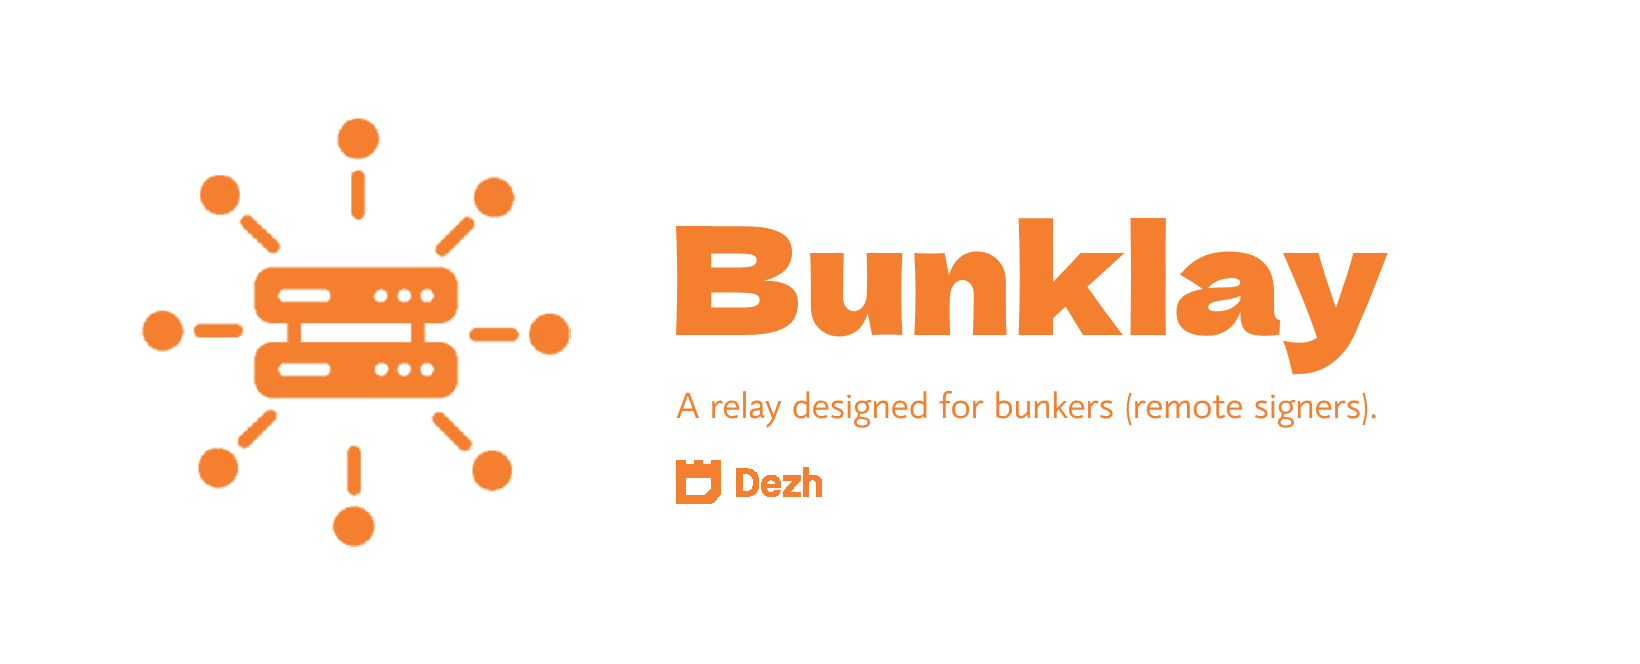
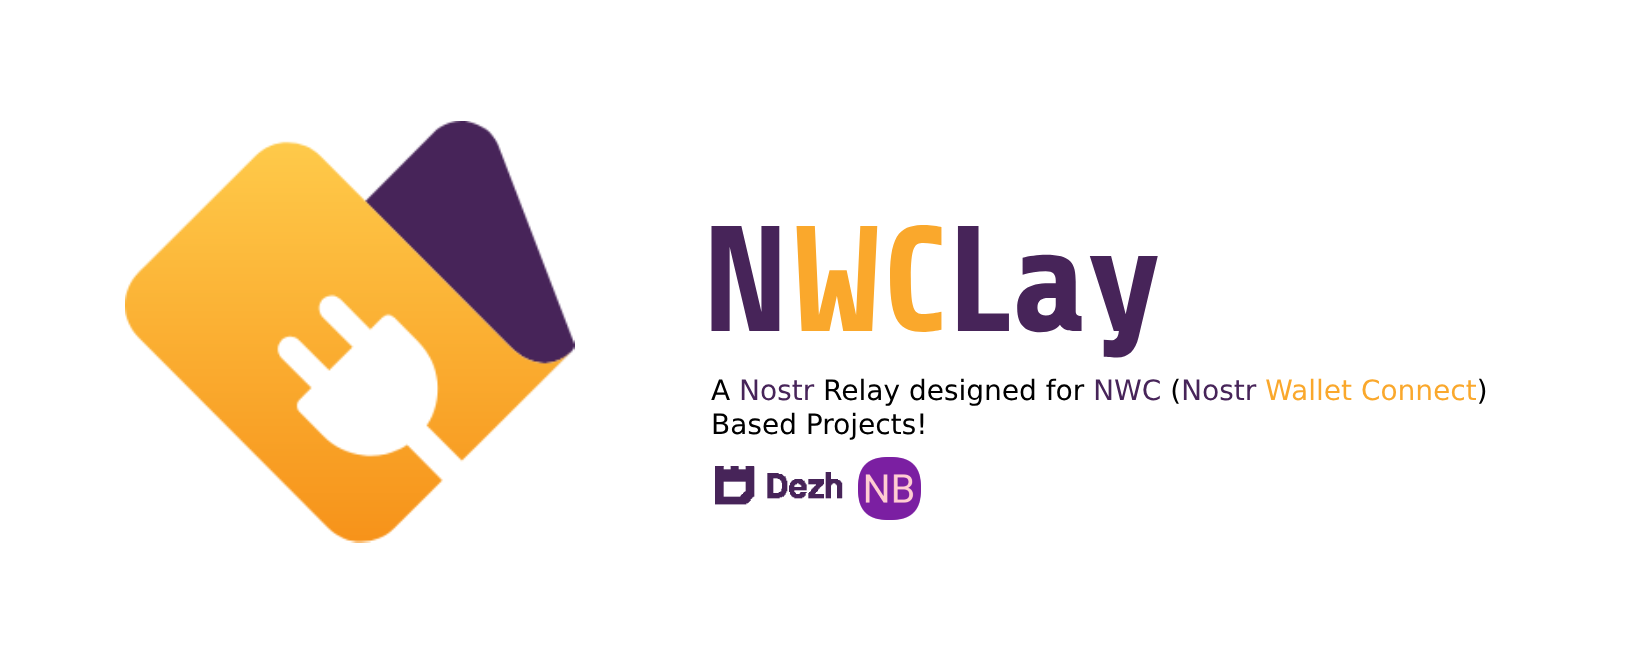
fix: nwclay v1

Changed region(s): [[0.0622, 0.1807, 0.3732, 0.8133], [0.4043, 0.3313, 0.9018, 0.6627], [0.4043, 0.6928, 0.5598, 0.7831]]

diff --git a/nwclay/static/index.html b/nwclay/static/index.html
@@ -11,7 +11,7 @@
         body {
             font-family: "Inter", sans-serif;
             min-height: 100vh;
-            background: linear-gradient(to right, #f47f2f, #ffffff);
+            background: linear-gradient(to right, #472459, #faa82c);
         }
     </style>
 </head>
@@ -22,17 +22,19 @@
                 <a href="{{.Icon}}">
                     <img src="{{.Icon}}" class="w-24 h-24 rounded-full border-2 border-white mb-2" />
                 </a>
-                <h1 class="text-3xl font-bold text-[#f47f2f]">{{.Name}}</h1>
-                <p class="text-lg text-black-300">{{.Description}}</p>
+                <h1 class="text-3xl font-bold" style="color: #472459;">{{.Name}}</h1>
+                <p class="text-lg" style="color: #472459;">{{.Description}}</p>
             </div>
 
             <div class="bg-gray-800 p-6 rounded-lg shadow-lg mb-6">
-                <h2 class="text-2xl font-bold text-[#f47f2f] mb-4">Contact Information</h2>
+                <h2 class="text-2xl font-bold mb-4" style="color: #faa82c;">Contact Information</h2>
                 <table class="w-full">
                     <tbody>
                         <tr>
                             <td class="font-semibold">Pubkey:</td>
-                            <td><a href="nostr:{{.PubKey}}" class="text-[#f47f2f] hover:underline">Operator Nostr</a></td>
+                            <td>
+                                <a href="nostr:{{.PubKey}}" class="hover:underline" style="color: #faa82c;">Operator Nostr</a>
+                            </td>
                         </tr>
                         <tr>
                             <td class="font-semibold">Contact:</td>
@@ -43,12 +45,14 @@
             </div>
 
             <div class="bg-gray-800 p-6 rounded-lg shadow-lg mb-6">
-                <h2 class="text-2xl font-bold text-[#f47f2f] mb-4">Software</h2>
+                <h2 class="text-2xl font-bold mb-4" style="color: #faa82c;">Software</h2>
                 <table class="w-full">
                     <tbody>
                         <tr>
                             <td class="font-semibold">Software:</td>
-                            <td><a href="https://github.com/dezh-tech/ddsr" class="text-[#f47f2f] hover:underline">Bunklay</a></td>
+                            <td>
+                                <a href="https://github.com/dezh-tech/ddsr" class="hover:underline" style="color: #faa82c;">NWCLay</a>
+                            </td>
                         </tr>
                         <tr>
                             <td class="font-semibold">Version:</td>
@@ -65,8 +69,8 @@
     </div>
 
     <footer class="w-full text-center py-6 bg-gray-800 mt-auto">
-        <p class="text-lg text-gray-400 mb-2">
-            Please use a <a href="https://github.com/aljazceru/awesome-nostr#clients" class="text-[#f47f2f] hover:text-[#966957] underline">Nostr bunker/client</a> to connect.
+        <p class="text-lg mb-2" style="color: #ccc;">
+            Please use a <a href="https://github.com/aljazceru/awesome-nostr#clients" class="hover:underline" style="color: #faa82c;">Nostr wallet Connect Provider/Client</a> to connect.
         </p>
     </footer>
 </body>

diff --git a/nwclay/jobs.go b/nwclay/jobs.go
@@ -39,16 +39,3 @@ func cleanDatabase() {
 		}
 	}
 }
-
-// todo:::
-// func updateNIP11() {
-// 	ticker := time.NewTicker(time.Duration(config.AcceptEventsInRange) * time.Minute)
-// 	defer ticker.Stop()
-
-// 	for range ticker.C {
-// 		now := time.Now()
-
-// 		startTime := now.Add(time.Duration(-config.AcceptEventsInRange) * time.Minute)
-// 		endTime := now.Add(time.Duration(config.AcceptEventsInRange) * time.Minute)
-// 	}
-// }

diff --git a/nwclay/main.go b/nwclay/main.go
@@ -42,7 +42,7 @@ func main() {
 	relay.Info.Contact = config.RelayContact
 	relay.Info.URL = config.RelayURL
 	relay.Info.Banner = config.RelayBanner
-	relay.Info.SupportedNIPs = []any{1, 46}
+	relay.Info.SupportedNIPs = []any{1, 47}
 
 	mainDB := &badger.BadgerBackend{
 		Path:     path.Join(config.WorkingDirectory, "database"),

diff --git a/nwclay/README.md b/nwclay/README.md
@@ -1,5 +1,5 @@
 <p align="center"> 
-    <img alt="bunklay" src="./static/img/logo-transp.png" width="150" height="150" />
+    <img alt="nwclay" src="./static/img/logo-transp.png" width="150" height="150" />
 </p>
 
 <h1 align="center">
@@ -10,7 +10,7 @@ The NWCLay only accepts NWC events!
 
 ## Screenshot
 
-<img alt="pages" src="./static/img/ss.png"/>
+<img alt="nwclay" src="./static/img/ss.png"/>
 
 ## Features
 
@@ -66,7 +66,7 @@ For a more structured deployment, use **Docker Compose**:
 
 1. **use `compose.yml`**
 
-use the existing compose file in the Bunklay directory
+use the existing compose file in the NWCLay directory
 
 
 2. **Run with Compose**
@@ -80,7 +80,7 @@ Modify the `env` variables in the `.env` file, docker compose file, or docker co
 
 ### Relay Metadata
 
-- `RELAY_NAME` – The name of the relay (default: `210Maxi`).
+- `RELAY_NAME` – The name of the relay (default: `NWCLay`).
 - `RELAY_PUBKEY` – The owner's hex key (convert `npub` to hex [here](https://nostrcheck.me/converter/)).
 - `RELAY_DESCRIPTION` – A short description of the relay.
 - `RELAY_URL` – WebSocket URL for the relay (e.g., `wss://abc.com`).

diff --git a/README.md b/README.md
@@ -34,7 +34,12 @@ Here is a list of DSRs developed by the Dezh:
 3. [Bunklay](./bunklay): A relay that only accept bunker related events.
     - **Limits**: Only accept kind 24133.
     - **Database**: Keeps event for a while on database for reliability.
-    - **Filter checking**: Only accept valide filters with at least on author and only one kind which MUST be 24133.
+    - **Filter checking**: Only accept valid filters with at least on author or #p and only kins matching Bunker protocol.
+
+3. [NWCLay](./nwclay/): A relay that only accept NWC related events.
+    - **Limits**: Only accept kinds from NWC spec.
+    - **Database**: Keeps event for a while on database for reliability.
+    - **Filter checking**: Only accept valid filters with at least authors or #p and only kinds matching NWC.
 
 > [!NOTE]
 > You can open your target relay and find full documentation there.

diff --git a/bunklay/README.md b/bunklay/README.md
@@ -81,7 +81,7 @@ Modify the `env` variables in the `.env` file, docker compose file, or docker co
 
 ### Relay Metadata
 
-- `RELAY_NAME` – The name of the relay (default: `210Maxi`).
+- `RELAY_NAME` – The name of the relay (default: `bunklay`).
 - `RELAY_PUBKEY` – The owner's hex key (convert `npub` to hex [here](https://nostrcheck.me/converter/)).
 - `RELAY_DESCRIPTION` – A short description of the relay.
 - `RELAY_URL` – WebSocket URL for the relay (e.g., `wss://abc.com`).
